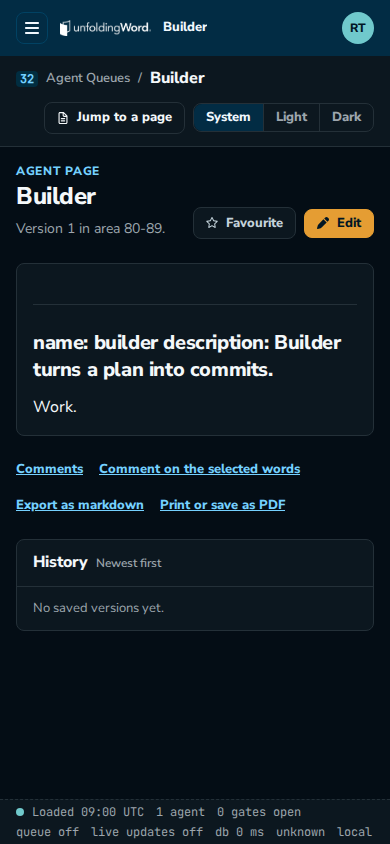
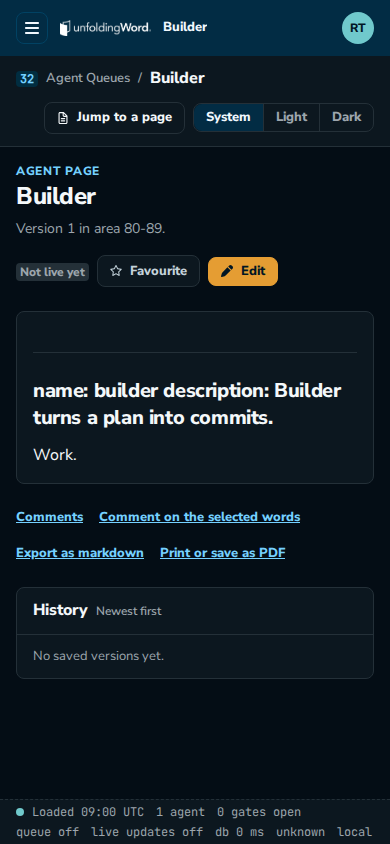
fix(pages): show a page's draft status and name a person's agent as author (#211)
* fix(pages): show a page's draft status and name a person's agent as author (#176)

The Notion import pilot wrote knowledge pages through write_page. They land
as drafts, but the read view showed no status, and the history named the
author as a raw agent identity.

The read view header now carries a Draft or Not live yet badge, in the words
the persona screen already uses. Page history and the version view resolve
agent:<person>/<device>, delegated forms included, to "<name>'s agent".

* test(screens): the page screen at phone width shows the status badge (#176)

The screenshot fixture for the page screen is a suggested agent page, so it
now carries "Not live yet", and the header's actions wrap onto their own row
at phone width. Both pictures are the ones CI rendered for fa1d2ff.

---------

diff --git a/apps/uw-app/views/page-provenance.pg.test.ts b/apps/uw-app/views/page-provenance.pg.test.ts
@@ -1,0 +1,97 @@
+import { JSDOM } from 'jsdom';
+import { describe, expect, it } from 'vitest';
+import { principalSchema, type Principal } from '@uw/contracts';
+import type { Database } from '@uw/db/client';
+import { writePageAsAgent } from '../pages/agent-write.ts';
+import { person } from '../testing/commands.ts';
+import { kernelOn, personOn } from '../testing/kernel.ts';
+import { fileKnowledge } from '../testing/knowledge.ts';
+import { testServer, withAppDatabase } from '../testing/postgres.ts';
+import { screenProblems } from '../testing/screen-checks.ts';
+import { getHtml } from '../testing/views.ts';
+
+type Owner = { readonly id: string; readonly email: string };
+
+function documentOf(text: string): Document {
+  return new JSDOM(text).window.document;
+}
+
+async function agentOf(db: Database, owner: Owner): Promise<Principal> {
+  const human = await personOn(db, owner.id, owner.email, new Date());
+  return principalSchema.parse({
+    ...human,
+    identity: `agent:${owner.id}/laptop`,
+    kind: 'agent',
+    email: null,
+  });
+}
+
+async function importedByAnAgent(db: Database, owner: Owner): Promise<string> {
+  const pageId = crypto.randomUUID();
+  const input = {
+    pageId,
+    type: 'knowledge' as const,
+    jdArea: '00-09',
+    slug: 'imported-from-notion',
+    title: '01.41 Imported from Notion',
+    parentId: null,
+    frontmatter: { jd_category: '01', jd_id: '01.41' },
+    bodyMd: 'Brought across by an agent.',
+    expectedVersion: null,
+  };
+  const request = {
+    traceId: crypto.randomUUID(),
+    at: new Date(),
+    instructions: kernelOn(db, { now: () => new Date() }).reads,
+    writer: null,
+  };
+  const written = await writePageAsAgent(db, await agentOf(db, owner), input, request);
+  expect(written).toMatchObject({ ok: true, page: { status: 'draft' } });
+  return pageId;
+}
+
+function statusShown(document: Document): string | null {
+  return document.querySelector('main [data-page-status]')?.textContent?.trim() ?? null;
+}
+
+function historyBy(document: Document): readonly string[] {
+  return [...document.querySelectorAll('main tbody tr')].map((row) => {
+    const cell = row.querySelectorAll('td')[2];
+    const chip = cell?.querySelector('[data-person-chip]');
+    const name = chip === null || chip === undefined ? cell : chip.lastElementChild;
+    return name?.textContent?.trim() ?? '';
+  });
+}
+
+async function agentPageShowsDraftAndOwner(db: Database): Promise<void> {
+  const owner = await person(db, 'import-owner', 'editor', '00-09');
+  const pageId = await importedByAnAgent(db, owner);
+  const read = await getHtml(db, owner.email, `/pages/${pageId}`);
+  expect(read.status).toBe(200);
+  expect(await screenProblems(read.text)).toEqual([]);
+  const document = documentOf(read.text);
+  expect(statusShown(document)).toBe('Draft');
+  expect(historyBy(document)).toEqual([`${owner.email}'s agent`]);
+  const version = await getHtml(db, owner.email, `/pages/${pageId}/versions/1`);
+  expect(version.status).toBe(200);
+  expect(documentOf(version.text).querySelector('main')?.textContent).toContain(
+    `${owner.email}'s agent`,
+  );
+}
+
+async function livePageShowsNoStatus(db: Database): Promise<void> {
+  const editor = await person(db, 'live-editor', 'editor', '00-09');
+  const filed = await fileKnowledge(db, editor.email, '01', { title: '01.47 Security' });
+  expect(filed.sent.body).toMatchObject({ status: 'accepted' });
+  const document = documentOf((await getHtml(db, editor.email, `/pages/${filed.pageId}`)).text);
+  expect(statusShown(document)).toBeNull();
+  expect(historyBy(document)).toEqual([editor.email]);
+}
+
+describe.skipIf(!testServer)('#176 a page says whether it is live and who wrote it', () => {
+  it("shows an agent's page as a draft, written by its person's agent", () =>
+    withAppDatabase(agentPageShowsDraftAndOwner));
+
+  it('shows no status on a live page, and names a person by their name', () =>
+    withAppDatabase(livePageShowsNoStatus));
+});

diff --git a/apps/uw-app/pages/history.ts b/apps/uw-app/pages/history.ts
@@ -1,9 +1,10 @@
-import { and, desc, eq, sql } from 'drizzle-orm';
+import { and, desc, eq } from 'drizzle-orm';
 import { pageSchema, personStatusSchema, type Page } from '@uw/contracts';
 import type { Principal } from '@uw/core/principal';
 import type { Executor } from '@uw/db/client';
 import { pages, pageVersions, people } from '@uw/db/schema';
 import type { PersonName } from '../people/directory.ts';
+import { authorName, authorPersonIs } from './author.ts';
 import { withoutWithheld } from './property-rules.ts';
 import { readPage } from './store.ts';
 
@@ -46,7 +47,7 @@ export async function pageHistory(
       saver: saverColumns,
     })
     .from(pageVersions)
-    .leftJoin(people, sql`${pageVersions.editSource} = 'human:' || ${people.id}::text`)
+    .leftJoin(people, authorPersonIs(pageVersions.editSource))
     .where(eq(pageVersions.pageId, pageId))
     .orderBy(desc(pageVersions.version))
     .limit(HISTORY_LIMIT);
@@ -54,7 +55,7 @@ export async function pageHistory(
     version: row.version,
     title: row.title,
     savedAt: row.savedAt,
-    savedBy: row.saver?.name ?? row.editSource,
+    savedBy: authorName(row.editSource, row.saver?.name ?? null),
     saver: saverOf(row.editSource, row.saver),
   }));
 }
@@ -81,7 +82,7 @@ export async function pageVersion(
   const [row] = await db
     .select({ snapshot: pageVersions, saver: saverColumns })
     .from(pageVersions)
-    .leftJoin(people, sql`${pageVersions.editSource} = 'human:' || ${people.id}::text`)
+    .leftJoin(people, authorPersonIs(pageVersions.editSource))
     .where(and(eq(pageVersions.pageId, key.pageId), eq(pageVersions.version, key.version)));
   if (!row) return null;
   const { snapshot } = row;
@@ -101,7 +102,7 @@ export async function pageVersion(
   return {
     page: await withoutWithheld(db, actor, page, collectionId, at),
     savedAt: snapshot.savedAt,
-    savedBy: row.saver?.name ?? snapshot.editSource,
+    savedBy: authorName(snapshot.editSource, row.saver?.name ?? null),
     saver: saverOf(snapshot.editSource, row.saver),
   };
 }

diff --git a/apps/uw-app/pages/author.test.ts b/apps/uw-app/pages/author.test.ts
@@ -1,0 +1,25 @@
+import { describe, expect, it } from 'vitest';
+import { authorName } from './author.ts';
+
+const PERSON = '00000000-0000-4000-8000-000000001761';
+const DELEGATION = '00000000-0000-4000-8000-000000001762';
+
+describe('#176 who a page version names as its author', () => {
+  it('names a person by their name', () => {
+    expect(authorName(`human:${PERSON}`, 'Jesse Griffin')).toBe('Jesse Griffin');
+  });
+
+  it("names an agent on a person's own machine as that person's agent", () => {
+    expect(authorName(`agent:${PERSON}/laptop`, 'Jesse Griffin')).toBe("Jesse Griffin's agent");
+  });
+
+  it("names a delegated agent as the granting person's agent", () => {
+    const delegated = `agent:${PERSON}/laptop as builder via delegation:${DELEGATION}`;
+    expect(authorName(delegated, 'Jesse Griffin')).toBe("Jesse Griffin's agent");
+  });
+
+  it('keeps the identity when no person stands behind it', () => {
+    expect(authorName('agent:builder', null)).toBe('agent:builder');
+    expect(authorName(`agent:${PERSON}/laptop`, null)).toBe(`agent:${PERSON}/laptop`);
+  });
+});

diff --git a/apps/uw-app/pages/author.ts b/apps/uw-app/pages/author.ts
@@ -1,0 +1,20 @@
+import { sql, type SQL } from 'drizzle-orm';
+import type { AnyPgColumn } from 'drizzle-orm/pg-core';
+import { deviceOwnerSegment } from '@uw/contracts';
+import { people } from '@uw/db/schema';
+
+const HUMAN = 'human:';
+
+export function authorPersonIs(identity: AnyPgColumn): SQL {
+  return sql`${people.id}::text = CASE
+    WHEN ${identity} LIKE 'human:%' THEN substr(${identity}, 7)
+    WHEN ${identity} LIKE 'agent:%/%' THEN split_part(substr(${identity}, 7), '/', 1)
+  END`;
+}
+
+export function authorName(identity: string, personName: string | null): string {
+  if (personName === null) return identity;
+  if (identity.startsWith(HUMAN)) return personName;
+  if (deviceOwnerSegment(identity) !== null) return `${personName}'s agent`;
+  return identity;
+}

diff --git a/apps/uw-app/views/screens/page.tsx b/apps/uw-app/views/screens/page.tsx
@@ -26,6 +26,7 @@ import {
   type ShownPage,
 } from '../parts/page-shown.ts';
 import { idParam } from '../parts/params.ts';
+import { PageStatusBadge } from '../parts/page-status.tsx';
 import {
   pageCommentsPath,
   pageEditPath,
@@ -241,6 +242,7 @@ function body(shown: ShownPage, extras: Extras) {
         lede={`Version ${String(page.version)} in area ${page.jdArea}.`}
         actions={
           <>
+            <PageStatusBadge status={page.status} />
             <FavouriteToggle pageId={page.id} on={extras.favourite} />
             {pencil}
           </>

diff --git a/apps/uw-app/views/parts/page-status.tsx b/apps/uw-app/views/parts/page-status.tsx
@@ -1,0 +1,17 @@
+import type { PageStatus } from '@uw/contracts';
+import { Badge } from '@uw/ui/components/badge.tsx';
+
+const notLiveWords: Readonly<Partial<Record<PageStatus, string>>> = {
+  draft: 'Draft',
+  suggested: 'Not live yet',
+};
+
+export function PageStatusBadge(props: { readonly status: PageStatus }) {
+  const words = notLiveWords[props.status];
+  if (words === undefined) return null;
+  return (
+    <span data-page-status={props.status}>
+      <Badge tone="neutral">{words}</Badge>
+    </span>
+  );
+}
